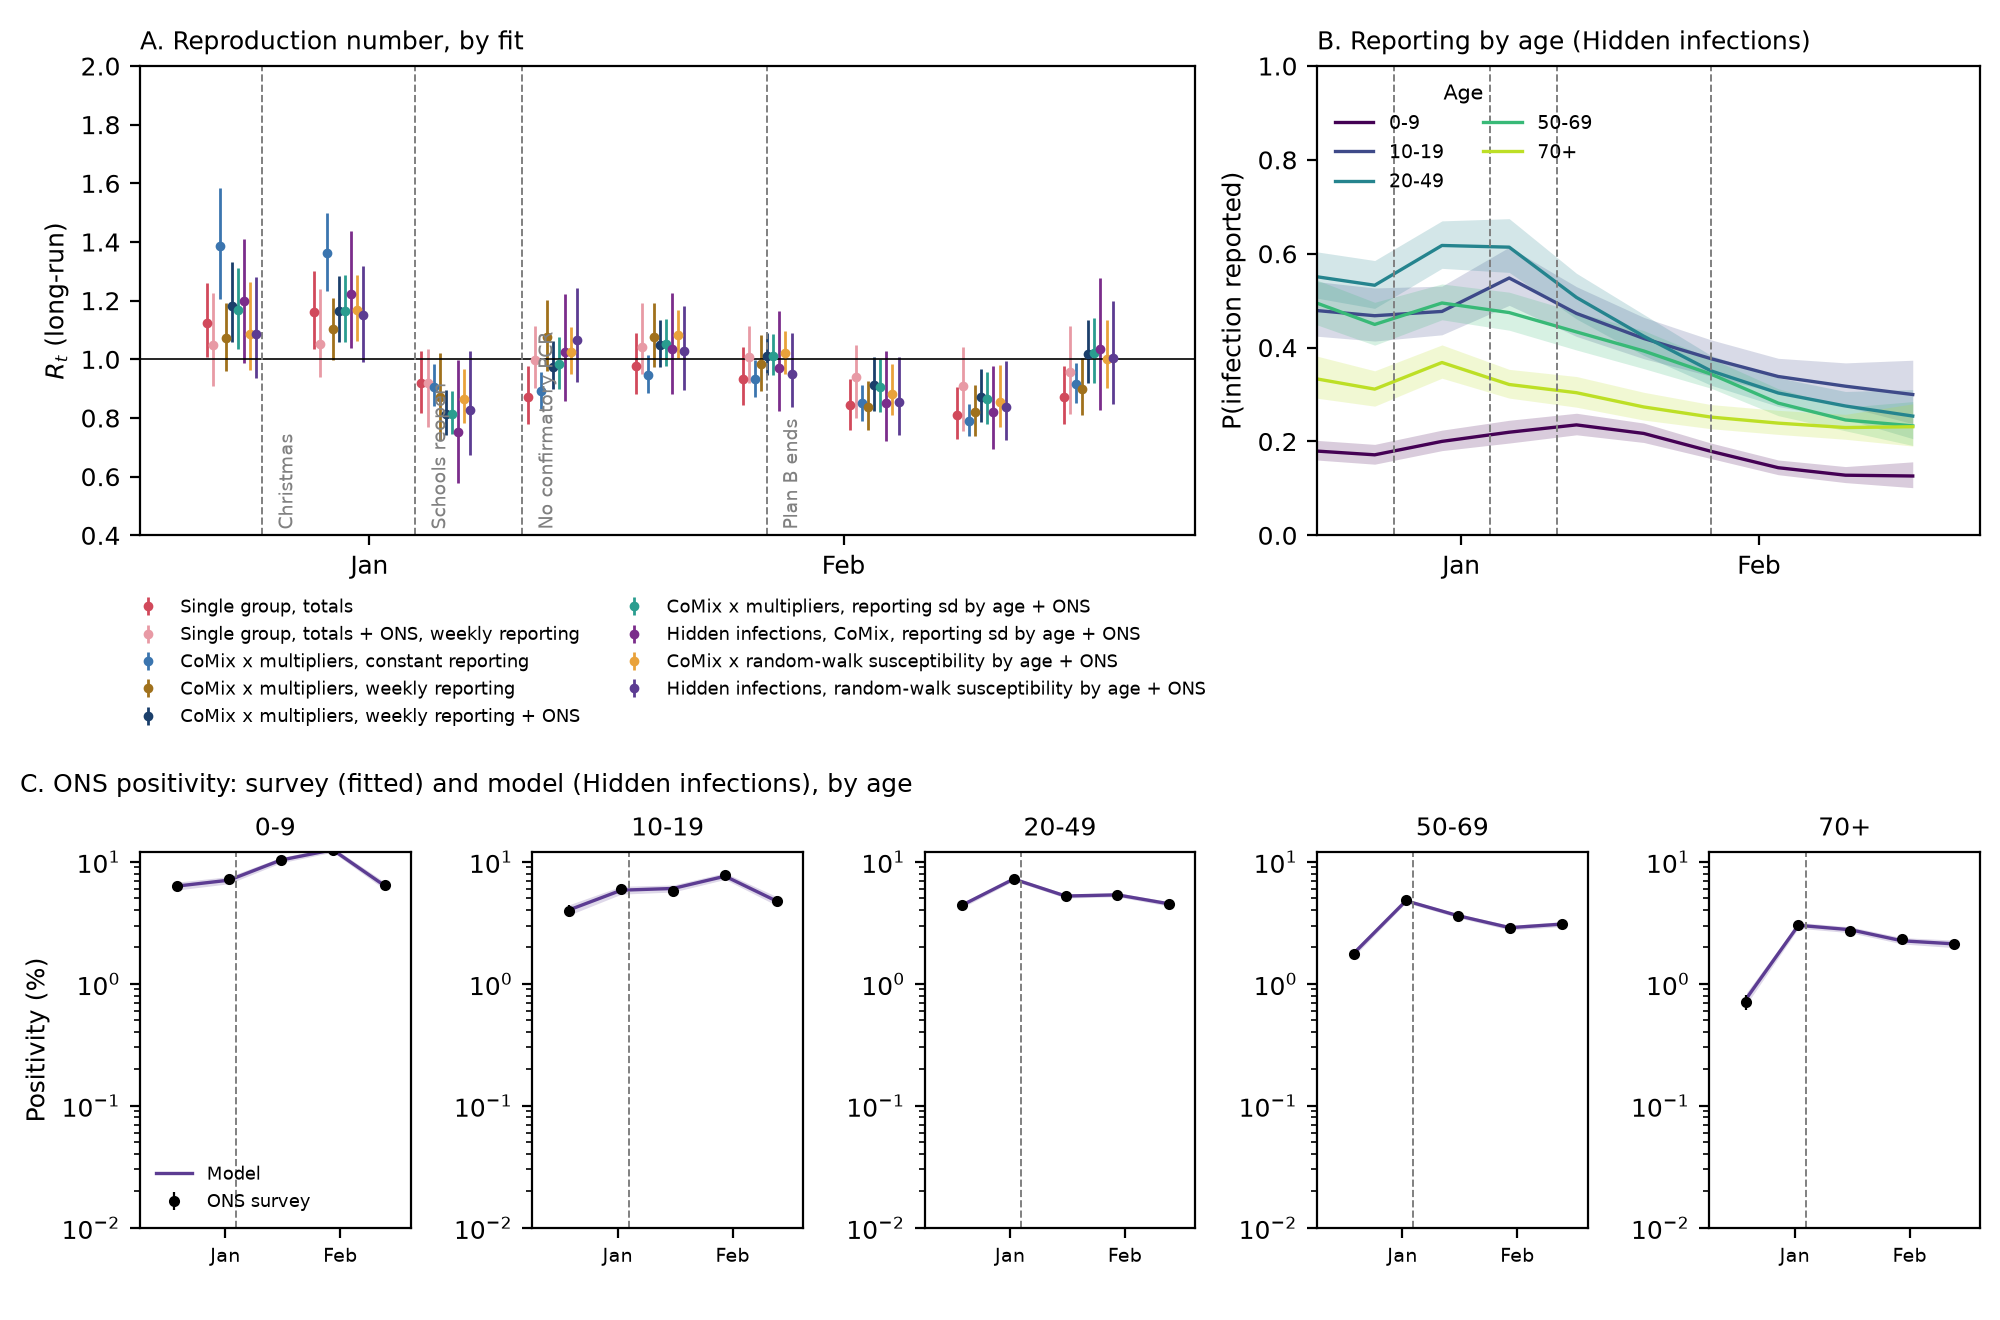
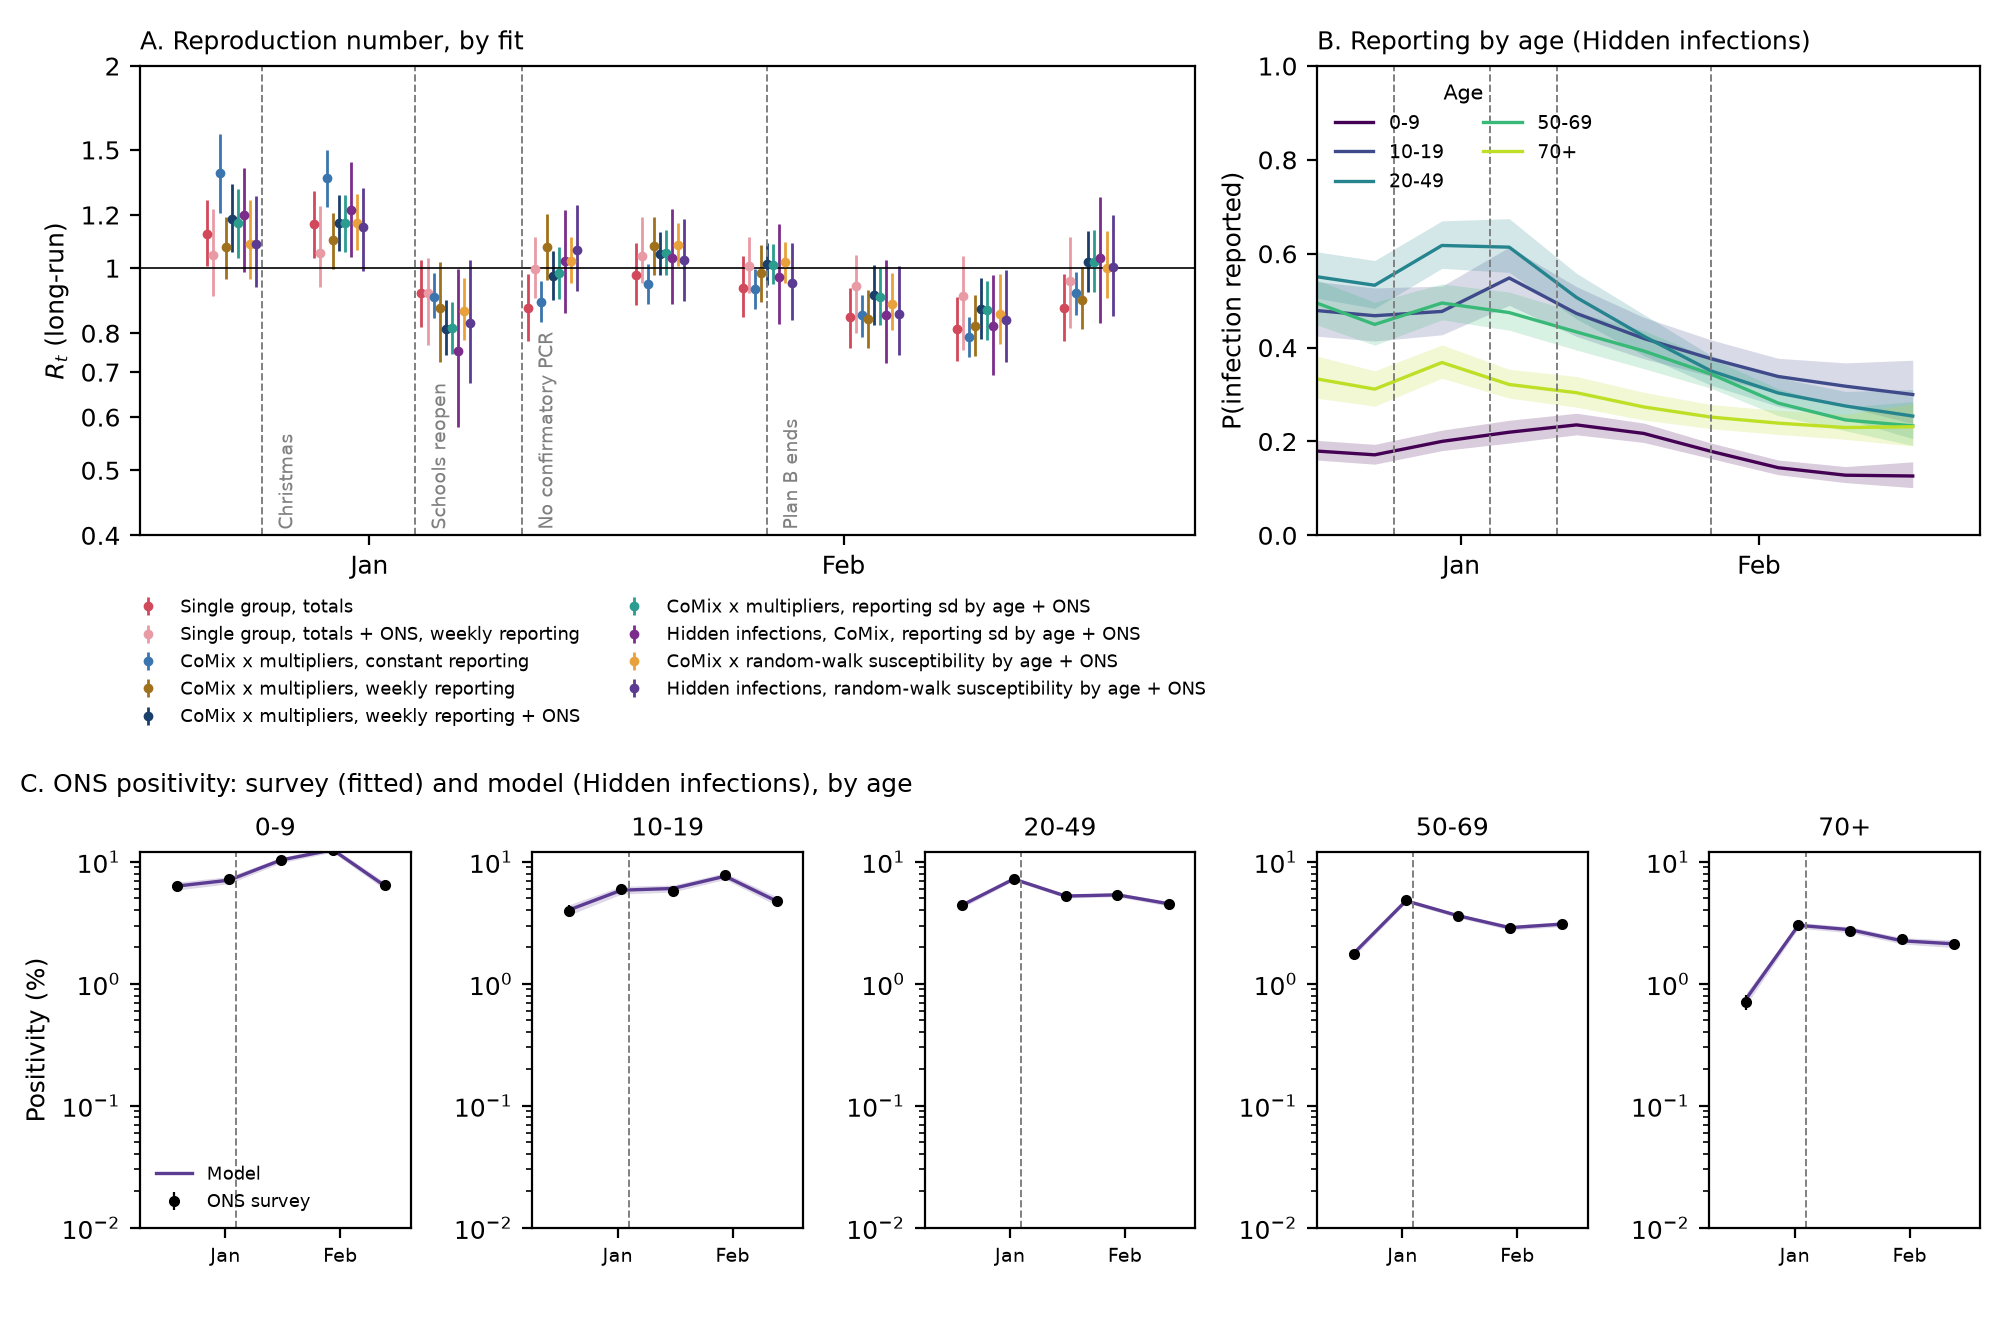
England figures: R_t on a log scale

diff --git a/run_england.py b/run_england.py
@@ -41,7 +41,7 @@ import matplotlib.pyplot as plt
 import matplotlib.dates as mdates
 from scipy.stats import gamma
 
-from common import ROOT, model, _diagnostics
+from common import ROOT, model, _diagnostics, log_r_axis
 
 PERIODS = {
     "spring2021": dict(
@@ -315,7 +315,7 @@ def plot(res, qres, pres, path):
                     color=COL[m], label=m)
     ax.axhline(1, color="black", lw=0.6)
     ax.set_ylabel("$R_t$ (long-run)")
-    ax.set_ylim(*CFG["ylim"])
+    log_r_axis(ax, *CFG["ylim"])
     ax.set_title("A. Reproduction number, by fit", fontsize=9, loc="left")
     ax.legend(fontsize=6.5, frameon=False, loc="upper center", bbox_to_anchor=(0.5, -0.1), ncol=2)
     top = [ax]
@@ -340,7 +340,7 @@ def plot(res, qres, pres, path):
         a.xaxis.set_major_formatter(mdates.DateFormatter("%b"))
         a.set_xlim(pd.Timestamp(CFG["plot_from"]) - pd.Timedelta(days=3), res.week_start.max() + pd.Timedelta(days=10))
     for d, lab in EVENTS.items():
-        top[0].text(pd.Timestamp(d) + pd.Timedelta(days=1), CFG["ylim"][0] + 0.02, lab, fontsize=7, color="grey",
+        top[0].text(pd.Timestamp(d) + pd.Timedelta(days=1), CFG["ylim"][0] * 1.02, lab, fontsize=7, color="grey",
                     rotation=90, va="bottom")
     p = pres[pres.model == main]
     for j, g in enumerate(GROUPS):

diff --git a/plot_england_summary.py b/plot_england_summary.py
@@ -8,7 +8,7 @@ import pandas as pd
 import matplotlib.pyplot as plt
 import matplotlib.dates as mdates
 
-from common import ROOT
+from common import ROOT, log_r_axis
 
 PERIODS = [("england_autumn2020", "Autumn 2020", {"2020-09-03": "Schools", "2020-09-21": "Universities",
                                                    "2020-10-26": "Half-term", "2020-11-05": "Lockdown"}),
@@ -37,10 +37,10 @@ for ax, (tag, title, events) in zip(axes, PERIODS):
                     yerr=[x["median"] - x.lo, x.hi - x["median"]], fmt="o", ms=2.5, lw=1, color=col, label=lab)
     ax.axhline(1, color="black", lw=0.6)
     lo, hi = 0.5, min(2.2, res[res.week_start >= start].hi.max() + 0.05)
-    ax.set_ylim(lo, hi)
+    log_r_axis(ax, lo, hi)
     for d, lab in events.items():
         ax.axvline(pd.Timestamp(d), ls="--", color="grey", lw=0.7)
-        ax.text(pd.Timestamp(d) + pd.Timedelta(days=1), hi - 0.02, lab, fontsize=7, color="grey", va="top")
+        ax.text(pd.Timestamp(d) + pd.Timedelta(days=1), hi * 0.97, lab, fontsize=7, color="grey", va="top")
     ax.set_title(title, fontsize=9, loc="left")
     ax.set_ylabel("$R_t$")
     ax.xaxis.set_major_locator(mdates.MonthLocator())

diff --git a/common.py b/common.py
@@ -191,3 +191,14 @@ def plot_two_groups(res, path):
     fig.legend(h, l, loc="lower center", ncol=3, fontsize=7.5, frameon=False)
     fig.tight_layout(rect=(0, 0.15, 1, 1), pad=0.3)
     fig.savefig(path, dpi=200)
+
+
+def log_r_axis(ax, lo, hi):
+    """Log-scale R_t axis with plain-number ticks."""
+    from matplotlib.ticker import FixedLocator, NullLocator, FuncFormatter
+    ax.set_yscale("log")
+    ax.set_ylim(lo, hi)
+    ticks = [t for t in (0.3, 0.4, 0.5, 0.6, 0.7, 0.8, 1, 1.2, 1.5, 2, 2.5, 3, 4) if lo <= t <= hi]
+    ax.yaxis.set_major_locator(FixedLocator(ticks))
+    ax.yaxis.set_minor_locator(NullLocator())
+    ax.yaxis.set_major_formatter(FuncFormatter(lambda v, _: f"{v:g}"))
